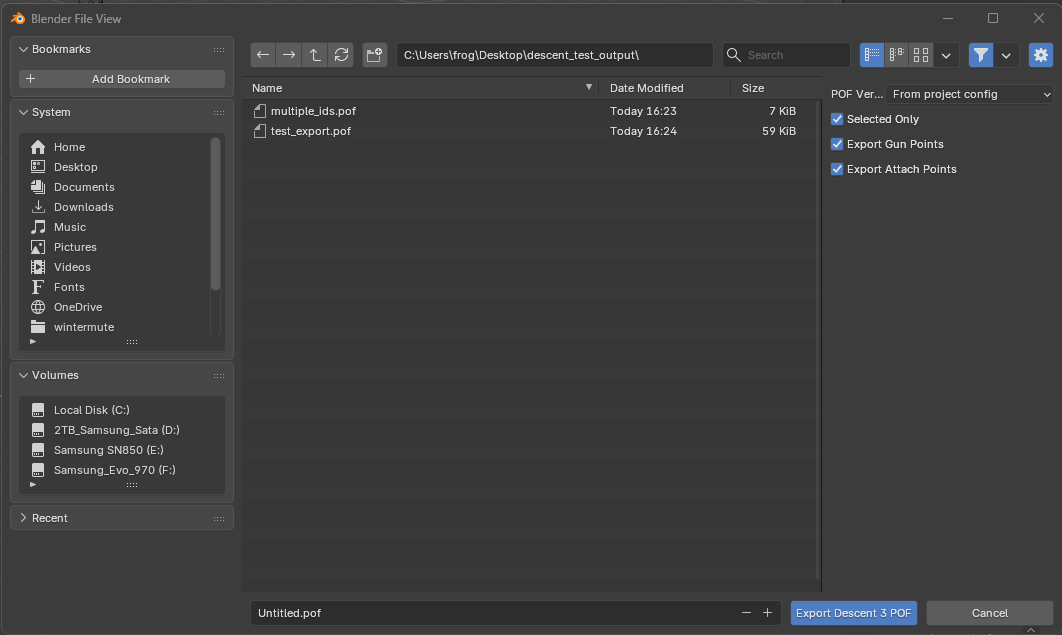
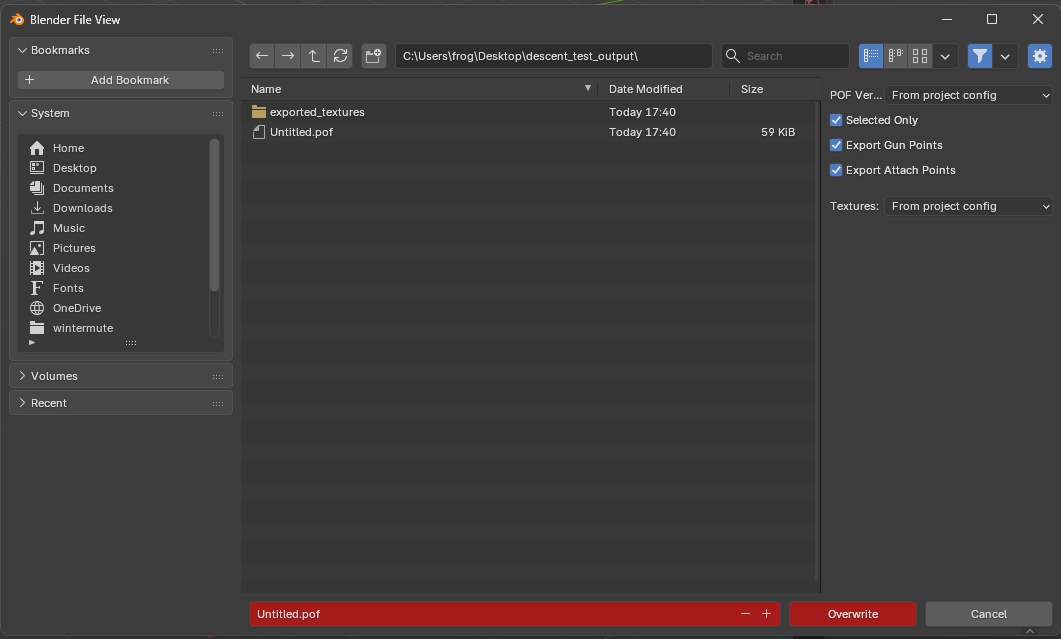
Refresh the export screenshot, and note that textures overwrite silently
The export dialog gained a Textures control when texture export landed, so the
old screenshot no longer matched the options table beneath it. The replacement
shows both dropdowns on "From project config", and happens to capture an
exported_textures folder sitting beside the .pof -- which illustrates the output
layout better than the code fence below it does on its own. The alt text is
rewritten to describe what is actually in the frame.

The new shot also shows Blender's own overwrite guard: the filename field turns
red and the button reads "Overwrite" because Untitled.pof already exists. That
guard covers the model file only. Texture images are replaced without asking,
and a reader looking at that red button would reasonably assume otherwise, so
the asymmetry is now stated where the screenshot raises the question.

diff --git a/README.md b/README.md
@@ -99,7 +99,7 @@ image textures.
 
 `File → Export → Descent 3 POF/OOF (.pof)`.
 
-![The Descent 3 export dialog, with POF Version set to "From project config", plus Selected Only, Export Gun Points and Export Attach Points](docs/images/export-dialog.png)
+![The Descent 3 export dialog. POF Version and Textures are both set to "From project config"; Selected Only, Export Gun Points and Export Attach Points are ticked. The file listing shows an exported_textures folder written beside Untitled.pof](docs/images/export-dialog.png)
 
 | Option | Description |
 |--------|-------------|
@@ -126,6 +126,12 @@ export/
     Hull.png
     Turret.png
 ```
+
+**Existing texture files are overwritten without asking.** Blender guards the
+model file itself — the export button turns red and reads *Overwrite* when the
+`.pof` already exists, as in the screenshot above — but that guard does not
+extend to the images. If you hand-edit an exported texture outside Blender,
+re-exporting replaces it.
 
 PNG and Targa are supported. Descent 3's native **OGF is not** — Blender cannot
 encode it, and offering the option would produce files the game rejects; it
